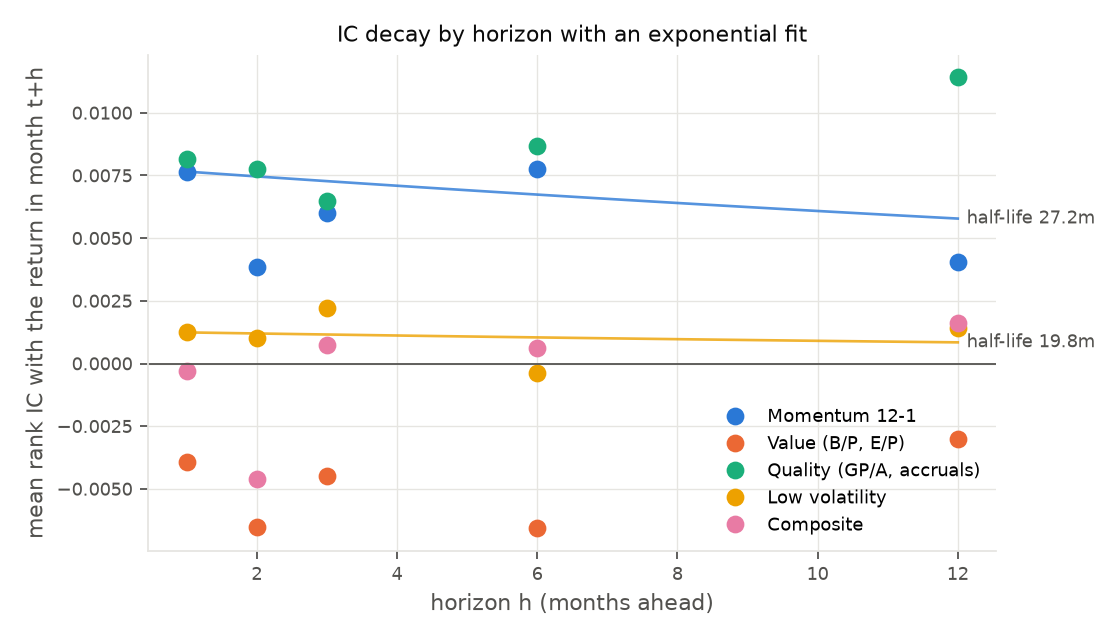
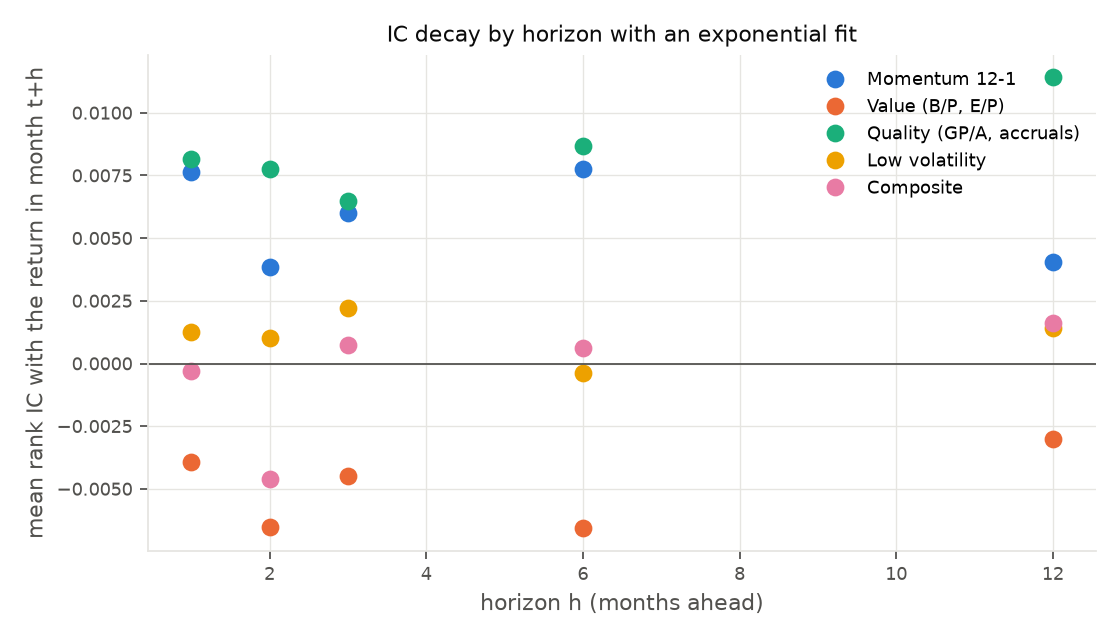
The results table says what share of members each signal is computed on, and no half-life is printed without an IC
FIX_PLAN_2 G3. A Coverage column on the results table: the median
across months of the share of members with a finite z, read off the
saved signal frame rather than the tag coverage it was built from.
Quality's cell reads "70% of non-fin." with a one-line footnote under
the table (gross profitability needs a cost-of-goods line; financials
excluded by rule) and the same mark on its attribution row. Momentum
and low volatility are on 87% of members, value 84%, the composite 52%.

Half-life is n/a where the h=1 IC t-stat is under 1.96 in absolute
value, and the decay chart draws no fitted curve there. That is every
reported factor: momentum's "27-month half-life" was a curve through
points not distinguishable from zero. The README's decay paragraph
and quality bullet say so; its two results tables are the regenerated
ones and tests/test_readme.py checks the column, the footnote and the
n/a rule on both files.

diff --git a/src/backtester/report.py b/src/backtester/report.py
@@ -77,6 +77,48 @@ class FactorReport:
 # --- per factor ---------------------------------------------------------
 
 
+# A half-life is a property of an IC that is there. Under |t| < 1.96 at
+# h=1 the mean IC is not distinguishable from zero, so the table prints
+# n/a and the chart draws no fitted curve (FIX_PLAN_2 G3).
+IC_T_MIN = 1.96
+# Factors whose signal excludes Financials by rule (gross profitability,
+# as Novy-Marx does): coverage is reported against non-financial members.
+NON_FINANCIAL = {"quality", "quality_ttm"}
+COVERAGE_FOOTNOTE = (
+    "¹ Quality is computed on {pct}% of non-financial members in a typical month: "
+    "gross profitability needs a cost-of-goods line and the rest do not tag one "
+    "(decisions/tag_coverage_f3.md); financials are excluded by rule, as in Novy-Marx. "
+    "Coverage is the median across months of the share of members with a signal."
+)
+
+
+def coverage(
+    z: pl.DataFrame, members: pl.DataFrame, sectors: pl.DataFrame | None, non_fin: bool
+) -> float:
+    """Median across months of (members with a finite z) / (members), the
+    denominator restricted to non-financials when the signal excludes them.
+    This is what the signal was computed on, read off the saved z frame,
+    not the tag coverage the signal was built from."""
+    denom = members
+    if non_fin and sectors is not None:
+        sec = sectors.select("ticker", "sector").unique(subset=["ticker"])
+        denom = members.join(sec, on="ticker", how="left").filter(
+            pl.col("sector") != "Financials"
+        )
+    n = denom.group_by("month").len().rename({"len": "n"})
+    have = (
+        z.filter(pl.col("z").is_finite())
+        .join(denom, on=["month", "ticker"], how="inner")
+        .group_by("month")
+        .len()
+        .rename({"len": "have"})
+    )
+    j = n.join(have, on="month", how="left").with_columns(pl.col("have").fill_null(0))
+    if j.height == 0:
+        return float("nan")
+    return float((j["have"] / j["n"]).median())
+
+
 def _load(
     cfg: Config, factor: str, tag: str = ""
 ) -> tuple[pl.DataFrame, pl.DataFrame, pl.DataFrame]:
@@ -125,6 +167,8 @@ def factor_report(
     decay, hl = stats.ic_decay(
         z, inp.monthly.join(members, on=["month", "ticker"], how="inner"), HORIZONS
     )
+    if abs(ics["ic_t"]) < IC_T_MIN:
+        hl = float("nan")  # no IC at h=1, so nothing to fit a decay to
     fm = stats.fama_macbeth(z, returns, lags=max(cfg.holding_months - 1, 0))
     att = stats.attribution(ls, inp.french, lags=max(cfg.holding_months - 1, 0))
 
@@ -167,6 +211,8 @@ def factor_report(
         "breakeven_bps": stats.breakeven_cost(ls) * 1e4,
         "half_life": hl,
         "months": len(n),
+        "coverage": coverage(z, members, inp.sectors, factor in NON_FINANCIAL),
+        "coverage_of": "non-fin." if factor in NON_FINANCIAL else "members",
     }
     return FactorReport(factor, ls, dec, ic, decay, hl, row, att, val)
 
@@ -189,7 +235,8 @@ def _be(x: float) -> str:
 def results_table(reports: list[FactorReport]) -> str:
     head = (
         "| Factor | Gross ann. | Net ann. | Vol | Sharpe (net) | DSR (all) | DSR (cand.) | Max DD | "
-        "Turnover | Mean IC | IC t-stat | Break-even cost |\n|---|---|---|---|---|---|---|---|---|---|---|---|\n"
+        "Turnover | Mean IC | IC t-stat | Break-even cost | Coverage |\n"
+        "|---|---|---|---|---|---|---|---|---|---|---|---|---|\n"
     )
     rows = []
     for r in reports:
@@ -199,9 +246,30 @@ def results_table(reports: list[FactorReport]) -> str:
             f"{_f(x['vol'], 1, True)} | {_f(x['sharpe_net'])} | {_f(x['dsr'])} | "
             f"{_f(x['dsr_candidates'])} | "
             f"{_f(x['max_dd'], 0, True)} | {_f(x['turnover'])} | {_f(x['mean_ic'], 3)} | "
-            f"{_f(x['ic_t'], 1)} | {_be(x['breakeven_bps'])} |"
+            f"{_f(x['ic_t'], 1)} | {_be(x['breakeven_bps'])} | {_cov(r)} |"
         )
     return head + "\n".join(rows) + "\n"
+
+
+def _cov(r: FactorReport) -> str:
+    """ "87%" for a signal on all members; "66% of non-fin.¹" when the
+    signal excludes financials by rule, the mark pointing at the footnote."""
+    x = r.row
+    cell = _f(x["coverage"], 0, True)
+    if x["coverage_of"] != "members":
+        cell += f" of {x['coverage_of']}{FOOTNOTE_MARK}"
+    return cell
+
+
+FOOTNOTE_MARK = "¹"
+
+
+def coverage_footnote(reports: list[FactorReport]) -> str:
+    """The one-line COGS footnote under a table that has quality in it."""
+    q = [r for r in reports if r.factor in NON_FINANCIAL]
+    if not q:
+        return ""
+    return COVERAGE_FOOTNOTE.format(pct=f"{100 * q[0].row['coverage']:.0f}") + "\n"
 
 
 def validation_table(cfg: Config, inp) -> str:
@@ -274,11 +342,18 @@ def attribution_table(reports: list[FactorReport]) -> str:
         def cell(k: str, b: dict = a.betas, t: dict = a.beta_t) -> str:
             return f"{b[k]:.2f} ({t[k]:.1f})"
 
+        mark = FOOTNOTE_MARK if r.factor in NON_FINANCIAL else ""
         out += (
-            f"| {LABELS[r.factor]} | {_f(a.alpha_annual, 1, True)} | {a.alpha_t:.1f} | "
+            f"| {LABELS[r.factor]}{mark} | {_f(a.alpha_annual, 1, True)} | {a.alpha_t:.1f} | "
             f"{cell('mkt_rf')} | {cell('hml')} | {cell('umd')} | {cell('rmw')} | {a.r2:.2f} |\n"
         )
     return out
+
+
+def _half_life(r: FactorReport) -> str:
+    if abs(r.row["ic_t"]) < IC_T_MIN:
+        return "n/a"
+    return "none within 5y" if math.isnan(r.half_life) else _f(r.half_life, 1)
 
 
 def decay_table(reports: list[FactorReport]) -> str:
@@ -293,7 +368,7 @@ def decay_table(reports: list[FactorReport]) -> str:
         out += (
             f"| {LABELS[r.factor]} | "
             + " | ".join(_f(ics[h], 3) for h in HORIZONS)
-            + f" | {'none within 5y' if math.isnan(r.half_life) else _f(r.half_life, 1)} |\n"
+            + f" | {_half_life(r)} |\n"
         )
     return out
 
@@ -620,6 +695,7 @@ def build(cfg: Config, factors: list[str] = REPORTED) -> str:
         f"{sr_var:.4f} all, {sr_var_cand:.4f} candidates).\n",
         "## Results table\n",
         results_table(headline),
+        "\n" + coverage_footnote(headline),
         f"\nPrice history covers {100 - gap:.1f}% of member-months; the missing names are "
         "disproportionately those that left the index. See Data.\n",
         "\nDSR is the deflated Sharpe: the probability that the net Sharpe exceeds the expected maximum "
@@ -635,6 +711,8 @@ def build(cfg: Config, factors: list[str] = REPORTED) -> str:
         attribution_table(headline),
         "\n## IC decay\n",
         decay_table(headline),
+        f"\nHalf-life is n/a where the h=1 IC t-stat is under {IC_T_MIN} in absolute value: "
+        "there is no IC to decay. The chart draws a fitted curve only where one is printed.\n",
         "\n## Net Sharpe by assumed cost\n",
         cost_table(headline, [0, 5, 10, 25, 50]),
         "\n## Variants (net Sharpe)\n",
@@ -666,6 +744,7 @@ def build(cfg: Config, factors: list[str] = REPORTED) -> str:
             "names whose filing changed least. Built for the data path (EDGAR primary documents, "
             "filing-dated, deterministic scorer); not one of the five factors the brief asked for.\n",
             results_table(appendix),
+            "\n" + coverage_footnote(appendix),
             "\nAttribution:\n",
             attribution_table(appendix),
             "\nVariants (net Sharpe):\n",

diff --git a/tests/test_readme.py b/tests/test_readme.py
@@ -1,16 +1,19 @@
 """No number in the README is typed from memory: its results table is the
-one in reports/results.md, which report.py writes (BUILD_PLAN ruling 4)."""
+one in reports/results.md, which report.py writes (BUILD_PLAN ruling 4).
+The caveats sit next to the numbers (FIX_PLAN_2 G3)."""
 
 import re
 from pathlib import Path
 
+from backtester import report
+
 HEADER = "| Factor | Gross ann. |"
 
 
-def _table(text: str) -> list[str]:
-    """The results table rows that follow the header, minus-signs normalised."""
+def _table(text: str, header: str = HEADER) -> list[str]:
+    """The table rows that follow ``header``, minus-signs normalised."""
     lines = text.splitlines()
-    start = next(i for i, line in enumerate(lines) if line.startswith(HEADER))
+    start = next(i for i, line in enumerate(lines) if line.startswith(header))
     rows = []
     for line in lines[start + 2 :]:
         if not line.startswith("|"):
@@ -19,7 +22,49 @@ def _table(text: str) -> list[str]:
     return rows
 
 
+def _cells(row: str) -> list[str]:
+    return [c.strip() for c in row.strip("|").split("|")]
+
+
 def test_readme_results_table_matches_results_md(repo_root: Path) -> None:
     readme = (repo_root / "README.md").read_text(encoding="utf-8")
     results = (repo_root / "reports" / "results.md").read_text(encoding="utf-8")
     assert _table(readme) == _table(results)
+
+
+def test_results_table_has_a_coverage_column_and_the_quality_footnote(
+    repo_root: Path,
+) -> None:
+    for name in ("README.md", "reports/results.md"):
+        text = (repo_root / name).read_text(encoding="utf-8")
+        head = next(line for line in text.splitlines() if line.startswith(HEADER))
+        assert _cells(head)[-1] == "Coverage"
+        rows = {_cells(r)[0]: _cells(r) for r in _table(text)}
+        quality = rows["Quality (GP/A, accruals)"][-1]
+        assert re.fullmatch(r"\d+% of non-fin\.¹", quality), quality
+        for factor, cells in rows.items():
+            if factor != "Quality (GP/A, accruals)":
+                assert re.fullmatch(r"\d+%", cells[-1]), (factor, cells[-1])
+        foot = [line for line in text.splitlines() if line.startswith("¹ Quality")]
+        assert foot, f"{name}: no coverage footnote"
+        assert quality.split("%")[0] + "%" in foot[0]
+        assert "cost-of-goods" in foot[0]
+
+
+def test_no_half_life_where_the_ic_t_stat_is_under_1_96(repo_root: Path) -> None:
+    text = (repo_root / "reports" / "results.md").read_text(encoding="utf-8")
+    head = _cells(next(x for x in text.splitlines() if x.startswith(HEADER)))
+    t_col = head.index("IC t-stat")
+    ic_t = {
+        _cells(r)[0]: float(_cells(r)[t_col].replace("−", "-")) for r in _table(text)
+    }
+    decay = {_cells(r)[0]: _cells(r)[-1] for r in _table(text, "| Factor | IC h=1 |")}
+    assert decay, "no IC decay table"
+    for factor, cell in decay.items():
+        if abs(ic_t[factor]) < report.IC_T_MIN:
+            assert cell == "n/a", (factor, cell)
+        else:
+            assert cell != "n/a", (factor, cell)
+    # the quality footnote mark is on the attribution row too
+    att = _table(text, "| Factor | Alpha (ann.) |")
+    assert any(r.startswith("| Quality (GP/A, accruals)¹ |") for r in att)

diff --git a/README.md b/README.md
@@ -63,13 +63,15 @@ Window 2010-01 to 2026-08, 200 monthly formations. Equal-weighted deciles,
 signals z-scored within sector, 1-day execution lag, **10 bp one-way cost on
 every dollar bought or sold**. Long–short is decile 10 minus decile 1.
 
-| Factor | Gross ann. | Net ann. | Vol | Sharpe (net) | DSR (all) | DSR (cand.) | Max DD | Turnover | Mean IC | IC t-stat | Break-even cost |
-|---|---|---|---|---|---|---|---|---|---|---|---|
-| Momentum 12-1 | 2.1% | 0.6% | 15.5% | 0.04 | 0.02 | 0.14 | −56% | 0.62 | 0.006 | 0.6 | 14 bp |
-| Value (B/P, E/P) | −1.1% | −1.8% | 11.0% | −0.16 | 0.00 | 0.03 | −50% | 0.30 | −0.004 | −0.5 | none (loses gross) |
-| Quality (GP/A, accruals) | 2.7% | 2.1% | 8.8% | 0.24 | 0.09 | 0.39 | −24% | 0.25 | 0.008 | 1.4 | 45 bp |
-| Low volatility | −4.5% | −5.1% | 18.6% | −0.27 | 0.00 | 0.01 | −74% | 0.25 | 0.003 | 0.2 | none (loses gross) |
-| Composite | −3.6% | −4.7% | 14.1% | −0.33 | 0.00 | 0.00 | −66% | 0.45 | −0.002 | −0.2 | none (loses gross) |
+| Factor | Gross ann. | Net ann. | Vol | Sharpe (net) | DSR (all) | DSR (cand.) | Max DD | Turnover | Mean IC | IC t-stat | Break-even cost | Coverage |
+|---|---|---|---|---|---|---|---|---|---|---|---|---|
+| Momentum 12-1 | 2.1% | 0.6% | 15.5% | 0.04 | 0.02 | 0.14 | −56% | 0.62 | 0.006 | 0.6 | 14 bp | 87% |
+| Value (B/P, E/P) | −1.1% | −1.8% | 11.0% | −0.16 | 0.00 | 0.03 | −50% | 0.30 | −0.004 | −0.5 | none (loses gross) | 84% |
+| Quality (GP/A, accruals) | 2.7% | 2.1% | 8.8% | 0.24 | 0.09 | 0.39 | −24% | 0.25 | 0.008 | 1.4 | 45 bp | 70% of non-fin.¹ |
+| Low volatility | −4.5% | −5.1% | 18.6% | −0.27 | 0.00 | 0.01 | −74% | 0.25 | 0.003 | 0.2 | none (loses gross) | 87% |
+| Composite | −3.6% | −4.7% | 14.1% | −0.33 | 0.00 | 0.00 | −66% | 0.45 | −0.002 | −0.2 | none (loses gross) | 52% |
+
+¹ Quality is computed on 70% of non-financial members in a typical month: gross profitability needs a cost-of-goods line and the rest do not tag one (decisions/tag_coverage_f3.md); financials are excluded by rule, as in Novy-Marx. Coverage is the median across months of the share of members with a signal.
 
 Price history covers 85.4% of member-months; the missing names are
 disproportionately those that left the index. See Data.
@@ -120,10 +122,11 @@ What the table says, factor by factor:
   months, so the missing delisted names are not hiding a premium.
 - **Quality** is the only positive line: net Sharpe 0.24, 0.30 cap-weighted,
   0.38 on the well-covered months, Fama-MacBeth t 1.4, DSR 0.39 against the
-  8 candidates. Accruals carry it. Gross profitability is computed on the
-  67–71% of non-financial members that report a cost-of-goods line
-  ([decisions/tag_coverage_f3.md](decisions/tag_coverage_f3.md)) and
-  excludes financials by rule, as Novy-Marx does. A net Sharpe of 0.24 with
+  8 candidates. Accruals carry it. The Coverage column is the caveat: the signal
+  exists for 70% of non-financial members in a typical month, because
+  gross profitability needs a cost-of-goods line and the rest do not tag
+  one ([decisions/tag_coverage_f3.md](decisions/tag_coverage_f3.md));
+  financials are excluded by rule, as Novy-Marx does. A net Sharpe of 0.24 with
   an IC t-stat of 1.4 is not evidence of much.
 - **Low volatility** loses 4.5% a year gross as a long–short. Its
   attribution is the brief's prediction: market beta −0.65 (t −10.7) and
@@ -143,12 +146,13 @@ Four charts, from [reports/figures/](reports/figures/):
 ![IC decay](reports/figures/chart3_ic_decay.png)
 ![Sharpe vs cost](reports/figures/chart4_sharpe_vs_cost.png)
 
-Signal decay: momentum's IC is small at every horizon and the exponential
-fit halves it in about 27 months; quality's IC at h=12 is as high as at
-h=1, which is why holding it for 6–12 months costs nothing in return and
-saves most of the turnover (though its 3–12 month holds net 0.02–0.08
-against 0.24 monthly, the difference being which calendar months form the
-portfolio). The full tables, including net Sharpe at 0, 5, 10, 25 and 50 bp,
+Signal decay: no half-life is printed, because no factor's h=1 IC t-stat
+reaches 1.96 and there is no IC to fit a decay to (the chart draws the
+points and no curve). Momentum's IC is small at every horizon; quality's
+IC at h=12 is as high as at h=1, which is why holding it for 6–12 months
+costs nothing in return and saves most of the turnover (though its 3–12
+month holds net 0.02–0.08 against 0.24 monthly, the difference being which
+calendar months form the portfolio). The full tables, including net Sharpe at 0, 5, 10, 25 and 50 bp,
 the cap-weighted and holding-period variants, and the Fama-MacBeth premia,
 are in [reports/results.md](reports/results.md).
 
@@ -159,9 +163,9 @@ factor. It is not one of the five the brief asked for, so it lives in
 [reports/results.md](reports/results.md) under its own heading, with the
 same columns:
 
-| Factor | Gross ann. | Net ann. | Vol | Sharpe (net) | DSR (all) | DSR (cand.) | Max DD | Turnover | Mean IC | IC t-stat | Break-even cost |
-|---|---|---|---|---|---|---|---|---|---|---|---|
-| 10-K text similarity | −0.2% | −1.0% | 5.6% | −0.17 | 0.00 | 0.03 | −27% | 0.30 | 0.004 | 0.9 | none (loses gross) |
+| Factor | Gross ann. | Net ann. | Vol | Sharpe (net) | DSR (all) | DSR (cand.) | Max DD | Turnover | Mean IC | IC t-stat | Break-even cost | Coverage |
+|---|---|---|---|---|---|---|---|---|---|---|---|---|
+| 10-K text similarity | −0.2% | −1.0% | 5.6% | −0.17 | 0.00 | 0.03 | −27% | 0.30 | 0.004 | 0.9 | none (loses gross) | 98% |
 
 **10-K text similarity**, long the names whose annual report changed
   least year on year (Cohen, Malloy and Nguyen's "Lazy Prices"), earns

diff --git a/reports/results.md b/reports/results.md
@@ -4,13 +4,16 @@ Generated by `backtester report`. Window 2010-01-31 to 2026-08-31; base cost 10 
 
 ## Results table
 
-| Factor | Gross ann. | Net ann. | Vol | Sharpe (net) | DSR (all) | DSR (cand.) | Max DD | Turnover | Mean IC | IC t-stat | Break-even cost |
-|---|---|---|---|---|---|---|---|---|---|---|---|
-| Momentum 12-1 | 2.1% | 0.6% | 15.5% | 0.04 | 0.02 | 0.14 | -56% | 0.62 | 0.006 | 0.6 | 14 bp |
-| Value (B/P, E/P) | -1.1% | -1.8% | 11.0% | -0.16 | 0.00 | 0.03 | -50% | 0.30 | -0.004 | -0.5 | none (loses gross) |
-| Quality (GP/A, accruals) | 2.7% | 2.1% | 8.8% | 0.24 | 0.09 | 0.39 | -24% | 0.25 | 0.008 | 1.4 | 45 bp |
-| Low volatility | -4.5% | -5.1% | 18.6% | -0.27 | 0.00 | 0.01 | -74% | 0.25 | 0.003 | 0.2 | none (loses gross) |
-| Composite | -3.6% | -4.7% | 14.1% | -0.33 | 0.00 | 0.00 | -66% | 0.45 | -0.002 | -0.2 | none (loses gross) |
+| Factor | Gross ann. | Net ann. | Vol | Sharpe (net) | DSR (all) | DSR (cand.) | Max DD | Turnover | Mean IC | IC t-stat | Break-even cost | Coverage |
+|---|---|---|---|---|---|---|---|---|---|---|---|---|
+| Momentum 12-1 | 2.1% | 0.6% | 15.5% | 0.04 | 0.02 | 0.14 | -56% | 0.62 | 0.006 | 0.6 | 14 bp | 87% |
+| Value (B/P, E/P) | -1.1% | -1.8% | 11.0% | -0.16 | 0.00 | 0.03 | -50% | 0.30 | -0.004 | -0.5 | none (loses gross) | 84% |
+| Quality (GP/A, accruals) | 2.7% | 2.1% | 8.8% | 0.24 | 0.09 | 0.39 | -24% | 0.25 | 0.008 | 1.4 | 45 bp | 70% of non-fin.¹ |
+| Low volatility | -4.5% | -5.1% | 18.6% | -0.27 | 0.00 | 0.01 | -74% | 0.25 | 0.003 | 0.2 | none (loses gross) | 87% |
+| Composite | -3.6% | -4.7% | 14.1% | -0.33 | 0.00 | 0.00 | -66% | 0.45 | -0.002 | -0.2 | none (loses gross) | 52% |
+
+
+¹ Quality is computed on 70% of non-financial members in a typical month: gross profitability needs a cost-of-goods line and the rest do not tag one (decisions/tag_coverage_f3.md); financials are excluded by rule, as in Novy-Marx. Coverage is the median across months of the share of members with a signal.
 
 
 Price history covers 85.4% of member-months; the missing names are disproportionately those that left the index. See Data.
@@ -37,7 +40,7 @@ DSR is the deflated Sharpe: the probability that the net Sharpe exceeds the expe
 |---|---|---|---|---|---|---|---|
 | Momentum 12-1 | -0.2% | -0.1 | -0.07 (-1.4) | -0.26 (-4.8) | 0.87 (15.0) | -0.08 (-0.8) | 0.65 |
 | Value (B/P, E/P) | -1.5% | -0.7 | 0.12 (3.0) | 0.42 (7.7) | -0.34 (-7.3) | 0.16 (2.2) | 0.52 |
-| Quality (GP/A, accruals) | 2.8% | 1.3 | -0.04 (-0.9) | -0.11 (-1.9) | 0.05 (0.7) | 0.09 (0.9) | 0.04 |
+| Quality (GP/A, accruals)¹ | 2.8% | 1.3 | -0.04 (-0.9) | -0.11 (-1.9) | 0.05 (0.7) | 0.09 (0.9) | 0.04 |
 | Low volatility | 0.8% | 0.3 | -0.65 (-10.7) | -0.12 (-1.5) | 0.41 (4.6) | 0.92 (8.1) | 0.61 |
 | Composite | -2.0% | -0.7 | -0.31 (-4.8) | 0.03 (0.3) | 0.38 (5.2) | 0.64 (4.7) | 0.40 |
 
@@ -46,11 +49,14 @@ DSR is the deflated Sharpe: the probability that the net Sharpe exceeds the expe
 
 | Factor | IC h=1 | IC h=2 | IC h=3 | IC h=6 | IC h=12 | Half-life (months) |
 |---|---|---|---|---|---|---|
-| Momentum 12-1 | 0.008 | 0.004 | 0.006 | 0.008 | 0.004 | 27.2 |
-| Value (B/P, E/P) | -0.004 | -0.007 | -0.004 | -0.007 | -0.003 | none within 5y |
-| Quality (GP/A, accruals) | 0.008 | 0.008 | 0.006 | 0.009 | 0.011 | none within 5y |
-| Low volatility | 0.001 | 0.001 | 0.002 | -0.000 | 0.001 | 19.8 |
-| Composite | -0.000 | -0.005 | 0.001 | 0.001 | 0.002 | none within 5y |
+| Momentum 12-1 | 0.008 | 0.004 | 0.006 | 0.008 | 0.004 | n/a |
+| Value (B/P, E/P) | -0.004 | -0.007 | -0.004 | -0.007 | -0.003 | n/a |
+| Quality (GP/A, accruals) | 0.008 | 0.008 | 0.006 | 0.009 | 0.011 | n/a |
+| Low volatility | 0.001 | 0.001 | 0.002 | -0.000 | 0.001 | n/a |
+| Composite | -0.000 | -0.005 | 0.001 | 0.001 | 0.002 | n/a |
+
+
+Half-life is n/a where the h=1 IC t-stat is under 1.96 in absolute value: there is no IC to decay. The chart draws a fitted curve only where one is printed.
 
 
 ## Net Sharpe by assumed cost
@@ -125,9 +131,11 @@ The hedge is the rolling 36-month beta to Mkt-RF estimated on months strictly be
 
 Year-on-year similarity of the 10-K text (Cohen, Malloy and Nguyen 2020), long the names whose filing changed least. Built for the data path (EDGAR primary documents, filing-dated, deterministic scorer); not one of the five factors the brief asked for.
 
-| Factor | Gross ann. | Net ann. | Vol | Sharpe (net) | DSR (all) | DSR (cand.) | Max DD | Turnover | Mean IC | IC t-stat | Break-even cost |
-|---|---|---|---|---|---|---|---|---|---|---|---|
-| 10-K text similarity | -0.2% | -1.0% | 5.6% | -0.17 | 0.00 | 0.03 | -27% | 0.30 | 0.004 | 0.9 | none (loses gross) |
+| Factor | Gross ann. | Net ann. | Vol | Sharpe (net) | DSR (all) | DSR (cand.) | Max DD | Turnover | Mean IC | IC t-stat | Break-even cost | Coverage |
+|---|---|---|---|---|---|---|---|---|---|---|---|---|
+| 10-K text similarity | -0.2% | -1.0% | 5.6% | -0.17 | 0.00 | 0.03 | -27% | 0.30 | 0.004 | 0.9 | none (loses gross) | 98% |
+
+
 
 
 Attribution:
